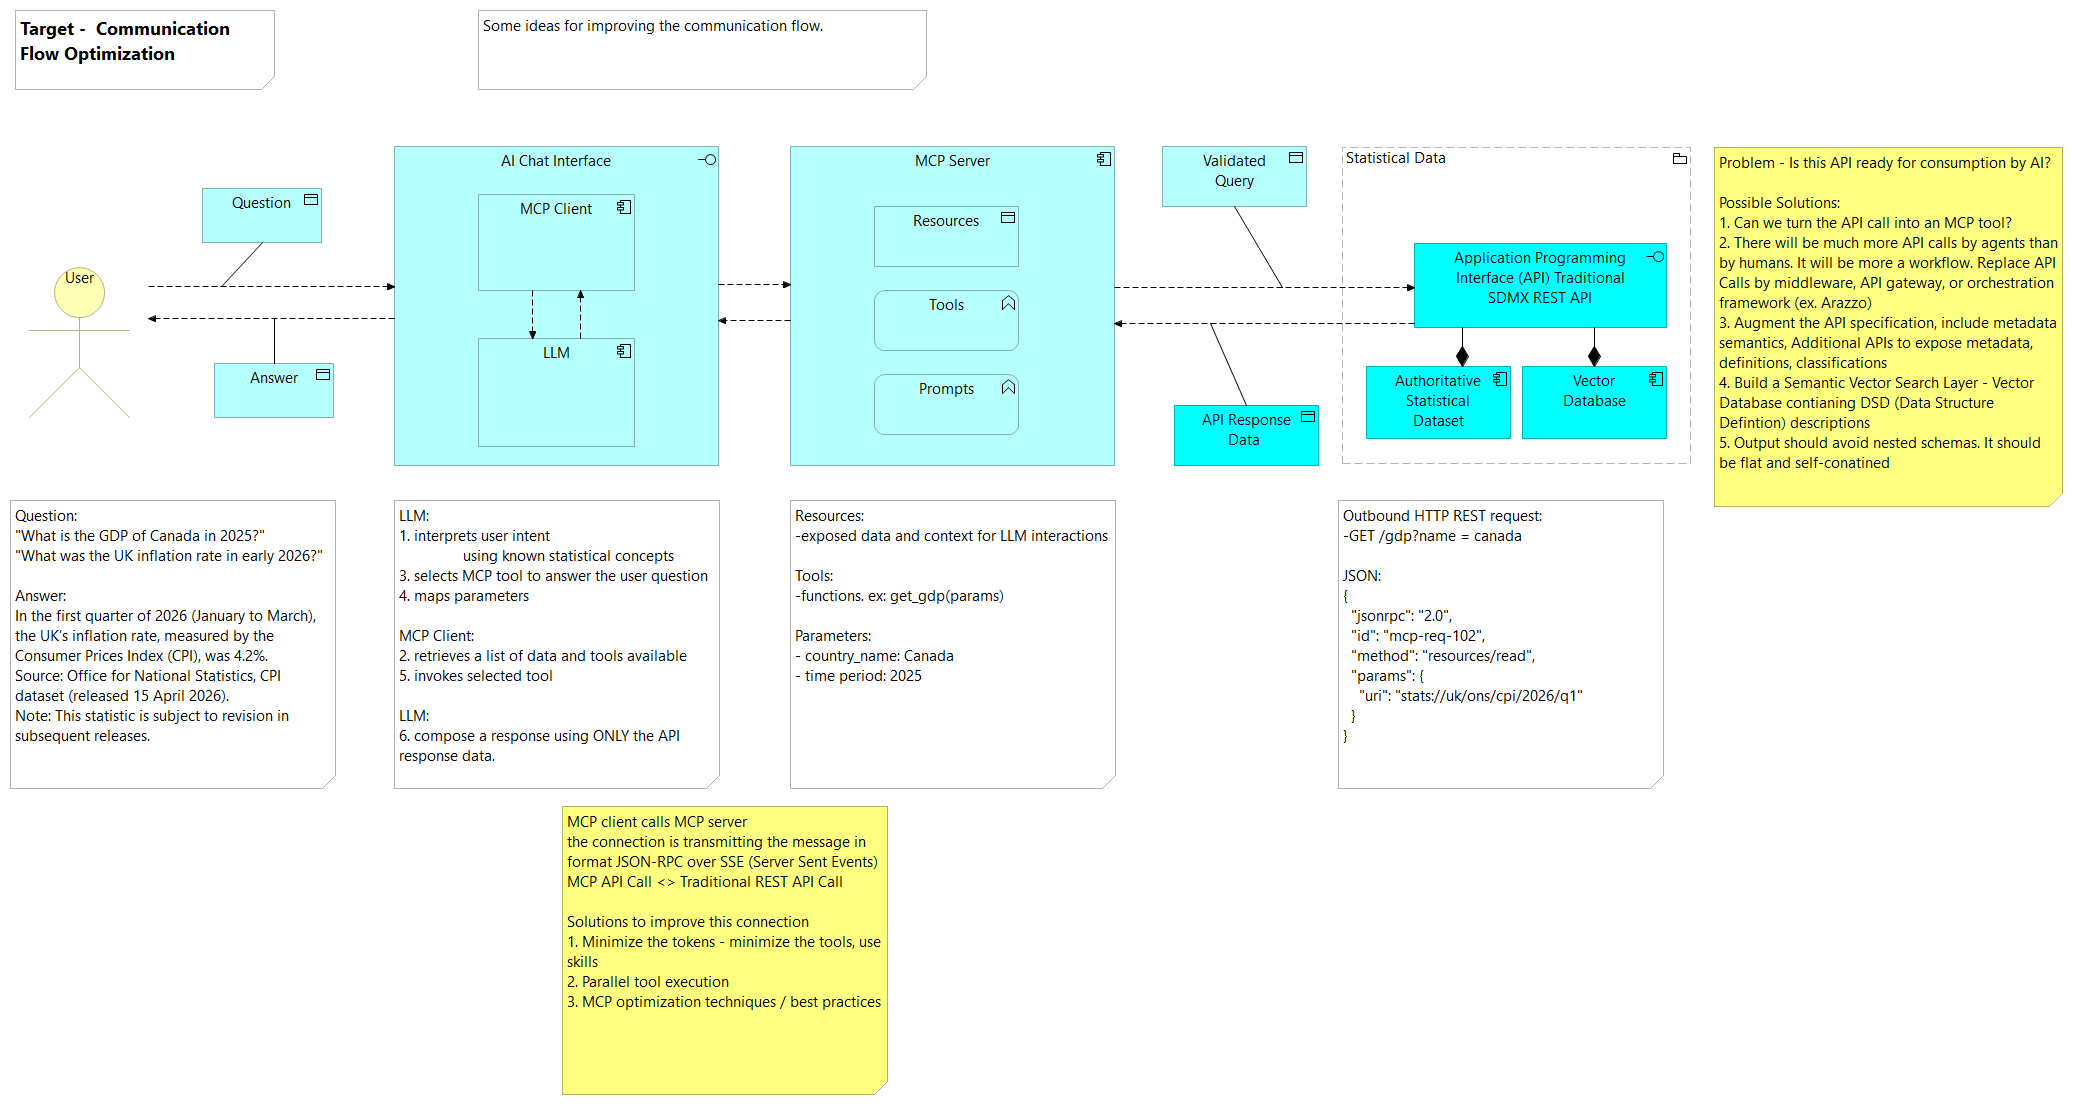
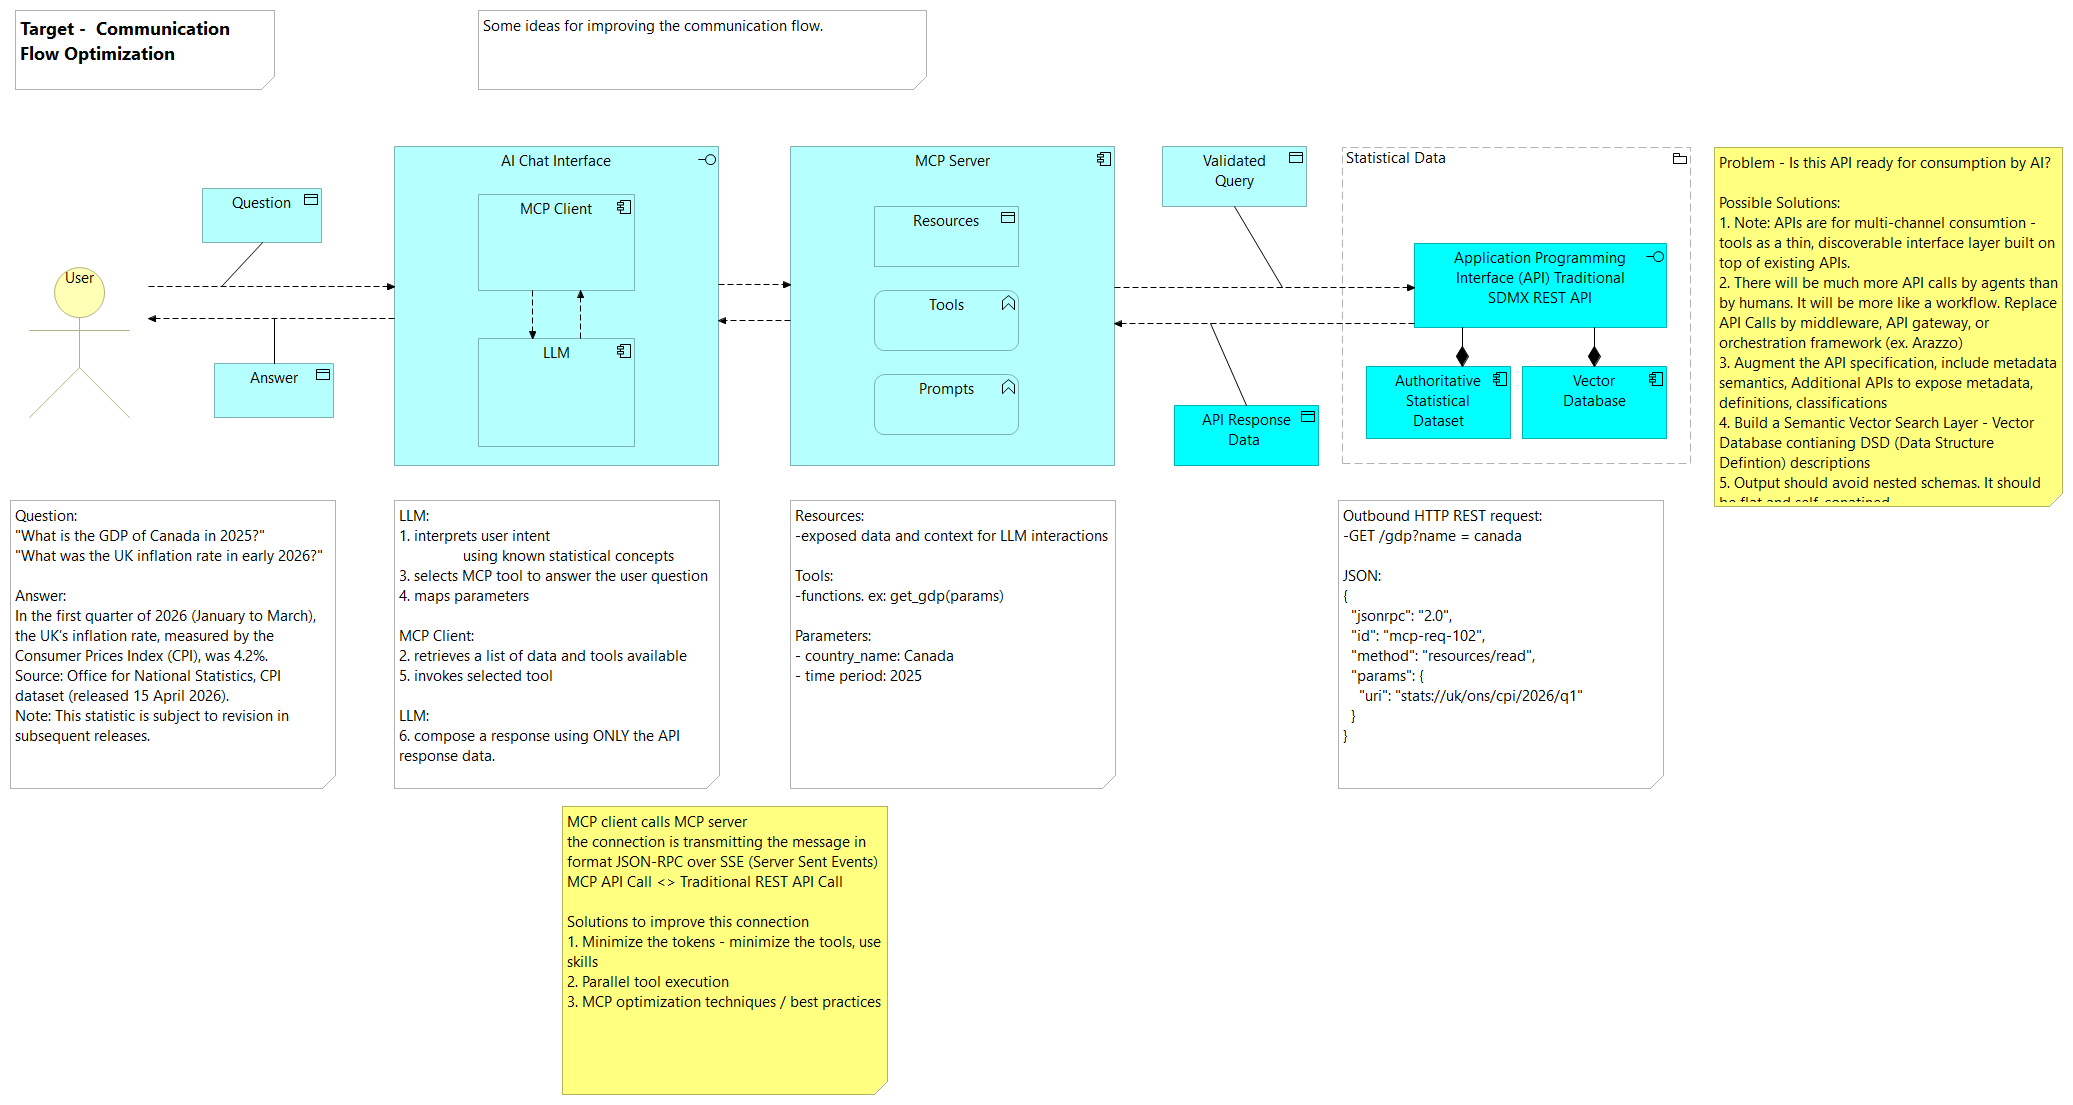
comment
comment

Changed region(s): [[0.8336, 0.1846, 1.0, 0.4615]]

diff --git a/id-fe7d0d9ef140494995e8cec29159dcaa/objects/id-7a6ae2d79ac141aca38408764e50ba4f.html b/id-fe7d0d9ef140494995e8cec29159dcaa/objects/id-7a6ae2d79ac141aca38408764e50ba4f.html
@@ -49,8 +49,8 @@
 						<div class="convertlinks documentation" style="white-space:pre-wrap">Problem - Is this API ready for consumption by AI?
 
 Possible Solutions:
-1. Can we turn the API call into an MCP tool?
-2. There will be much more API calls by agents than by humans. It will be more a workflow. Replace API Calls by middleware, API gateway, or orchestration framework (ex. Arazzo)
+1. Note: APIs are for multi-channel consumtion - tools as a thin, discoverable interface layer built on top of existing APIs.
+2. There will be much more API calls by agents than by humans. It will be more like a workflow. Replace API Calls by middleware, API gateway, or orchestration framework (ex. Arazzo)
 3. Augment the API specification, include metadata semantics, Additional APIs to expose metadata, definitions, classifications
 4. Build a Semantic Vector Search Layer - Vector Database contianing DSD (Data Structure Defintion) descriptions
 5. Output should avoid nested schemas. It should be flat and self-conatined</div>
